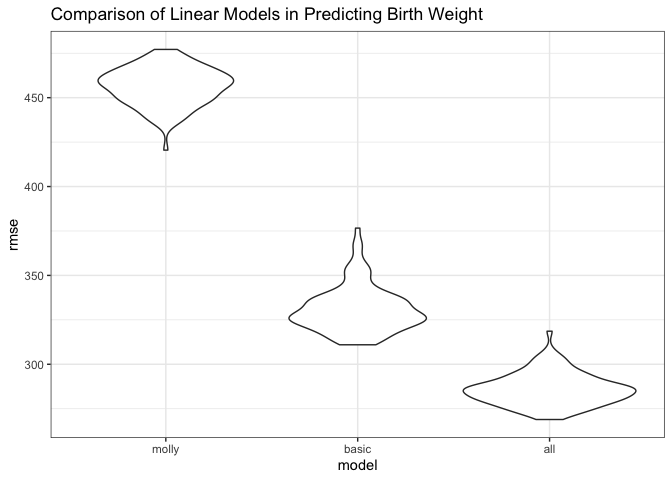
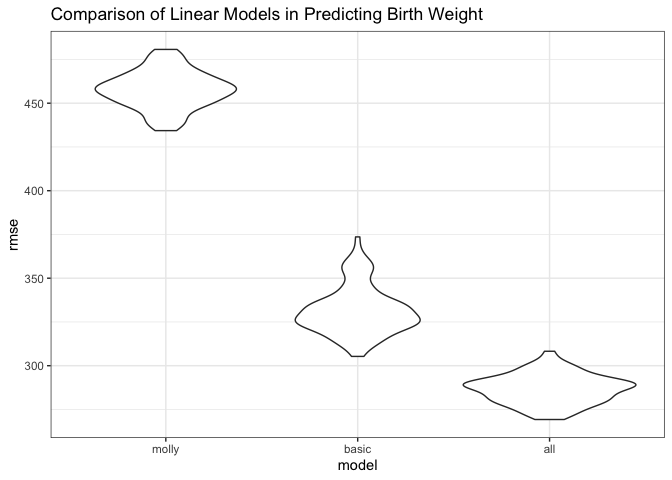
finished problem 2. fixed formatting.

diff --git a/p8105_hw6_mem2331.md b/p8105_hw6_mem2331.md
@@ -78,21 +78,26 @@ birth %>%
   geom_point() +
   theme_bw() +
   ggtitle("Residuals vs Fitted Values for Baby Weight Linear Model") +
-  xlab("Predicted Value") +
+  xlab("Predicted Baby Weight") +
   ylab("Residual")
 ```
 
 ![](p8105_hw6_mem2331_files/figure-gfm/unnamed-chunk-3-1.png)<!-- -->
 
-The plot suggests a linear relationship between the variables and baby
-weight. However there is possible heteroskedasticity, as baby weight may
-diverge more from predicted values at low baby weights.
+The residuals are evenly centered around 0, suggesting a linear
+relationship between the variables and baby weight. However there is
+possible heteroskedasticity, as baby weight may diverge more from
+predicted values at low baby weights.
 
 ## Comparison of model to provided models
 
-Create models to predict birthweight: 1. `basic_baby` - length at birth
-and GA as predictors 2. `all_baby` - head circumference, length, sex,
-and all interactions
+Create models to predict birthweight:
+
+1.  `basic_baby` - length at birth and GA as predictors
+2.  `all_baby` - head circumference, length, sex, and all interactions
+    of these variables
+
+<!-- end list -->
 
 ``` r
 basic_baby = lm(data = birth, bwt ~ blength + gaweeks)
@@ -109,11 +114,10 @@ basic_baby %>%
 | gaweeks     |     27.047 |     1.718 |    15.744 |       0 |
 
 The `basic_baby` model suggests both baby length and gestational age
-have effects on baby weight that are
-significant.
+have effects on baby weight that are significant.
 
 ``` r
-all_baby = lm(data = birth, bwt ~ bhead + blength + babysex + bhead*blength + bhead*babysex + blength*babysex + bhead*blength*babysex)
+all_baby = lm(data = birth, bwt ~ bhead*blength*babysex)
 
 all_baby %>% 
   tidy() %>% 
@@ -136,7 +140,8 @@ have a significant effect on final baby weight except for the
 interaction between head circumference and baby length.
 
 Now comparing `all_baby` and `basic_baby` to `molly_model` in terms of
-cross-validated prediction error:
+cross-validated prediction error: (chose 100 because that’s what we did
+in class).
 
 ``` r
 cv_df = crossv_mc(birth, 100)
@@ -180,7 +185,123 @@ cv_df %>%
 
 From the plot it is apparent that the model incorporating the most baby
 traits and interaction of those traits is the best model for predicting
-baby weight. The `molly_model` suffers likely because it primarily uses
-characteristics of the mother to predict the weight of the baby.
+baby weight (the `all_baby` model). The `molly_model` suffers likely
+because it primarily uses characteristics of the mother to predict the
+weight of the baby.
 
 # Problem 2
+
+Load and tidy the data:
+
+``` r
+weather_df = 
+  rnoaa::meteo_pull_monitors(
+    c("USW00094728"),
+    var = c("PRCP", "TMIN", "TMAX"), 
+    date_min = "2017-01-01",
+    date_max = "2017-12-31") %>%
+  mutate(
+    name = recode(id, USW00094728 = "CentralPark_NY"),
+    tmin = tmin / 10,
+    tmax = tmax / 10) %>%
+  select(name, id, everything())
+```
+
+    ## Registered S3 method overwritten by 'crul':
+    ##   method                 from
+    ##   as.character.form_file httr
+
+    ## Registered S3 method overwritten by 'hoardr':
+    ##   method           from
+    ##   print.cache_info httr
+
+    ## file path:          /Users/mollymartorella/Library/Caches/rnoaa/ghcnd/USW00094728.dly
+
+    ## file last updated:  2019-10-01 10:09:07
+
+    ## file min/max dates: 1869-01-01 / 2019-09-30
+
+## Linear model applied to bootstrapped samples
+
+Apply linear model with tmax as the response and tmin as the predictor
+to 5000 bootstrapped samples of `weather_df`:
+
+``` r
+boot_straps = 
+  weather_df %>% 
+  modelr::bootstrap(n = 5000) %>% 
+  mutate(
+    models = map(strap, ~lm(tmax ~ tmin, data = .x)),
+    results = map(models, broom::tidy),
+    fit = map(models, broom::glance))
+```
+
+## Extraction and calculation of lm estimates
+
+Now to extract r squared and calculate the log of the product of beta
+hat 1 and beta hat 0 for each bootstrapped sample.
+
+``` r
+estimates = 
+  boot_straps %>% 
+  unnest(c(results, fit), names_repair = "universal") %>% 
+  select(.id, term, estimate, r.squared) %>% 
+  pivot_wider(names_from = term, values_from = estimate) %>% 
+  janitor::clean_names() %>% 
+  rename(beta_1 = tmin,
+         beta_0 = intercept) %>% 
+  mutate(log_b1_b0 = log(beta_0*beta_1))
+```
+
+    ## New names:
+    ## * statistic -> statistic...7
+    ## * p.value -> p.value...8
+    ## * statistic -> statistic...12
+    ## * p.value -> p.value...13
+
+## Distributions and 95% CIs of estimates
+
+### r\_squared
+
+Plotting the distribution of `r_squared` values:
+
+``` r
+estimates %>% 
+  ggplot(aes(x = r_squared)) +
+  geom_density() +
+  theme_bw() +
+  ggtitle("Distribution of r_squared Values Across 5000 Bootstrapped Samples")
+```
+
+![](p8105_hw6_mem2331_files/figure-gfm/unnamed-chunk-10-1.png)<!-- -->
+
+The `r_squared` values are centered around ~0.912, which is very close
+to 1, indicating that the majority of the variance in tmax can be
+explained by the value of tmin. The distribution does appear to be
+skewed slightly to the left, which is likely a result of the values
+being so close to the maximum of 1 that the distribution cannot be
+exactly symmetric.
+
+The 95% confidence interval for the `r_squared` values is (0.894,
+0.927).
+
+### log(b0\*b1)
+
+Plotting the distribution of the log of the product of the beta hat
+values shows:
+
+``` r
+estimates %>% 
+  ggplot(aes(x = log_b1_b0)) +
+  geom_density() +
+  theme_bw() +
+  ggtitle("Distribution of log(b0*b1) Values Across 5000 Bootstrapped Samples") +
+  xlab("log(b0*b1)")
+```
+
+![](p8105_hw6_mem2331_files/figure-gfm/unnamed-chunk-11-1.png)<!-- -->
+
+This distribution is approprimately normal and symmetric about ~2.01.
+
+The 95% confidence interval for the `log_b1_b0` values is (1.967,
+2.059).
